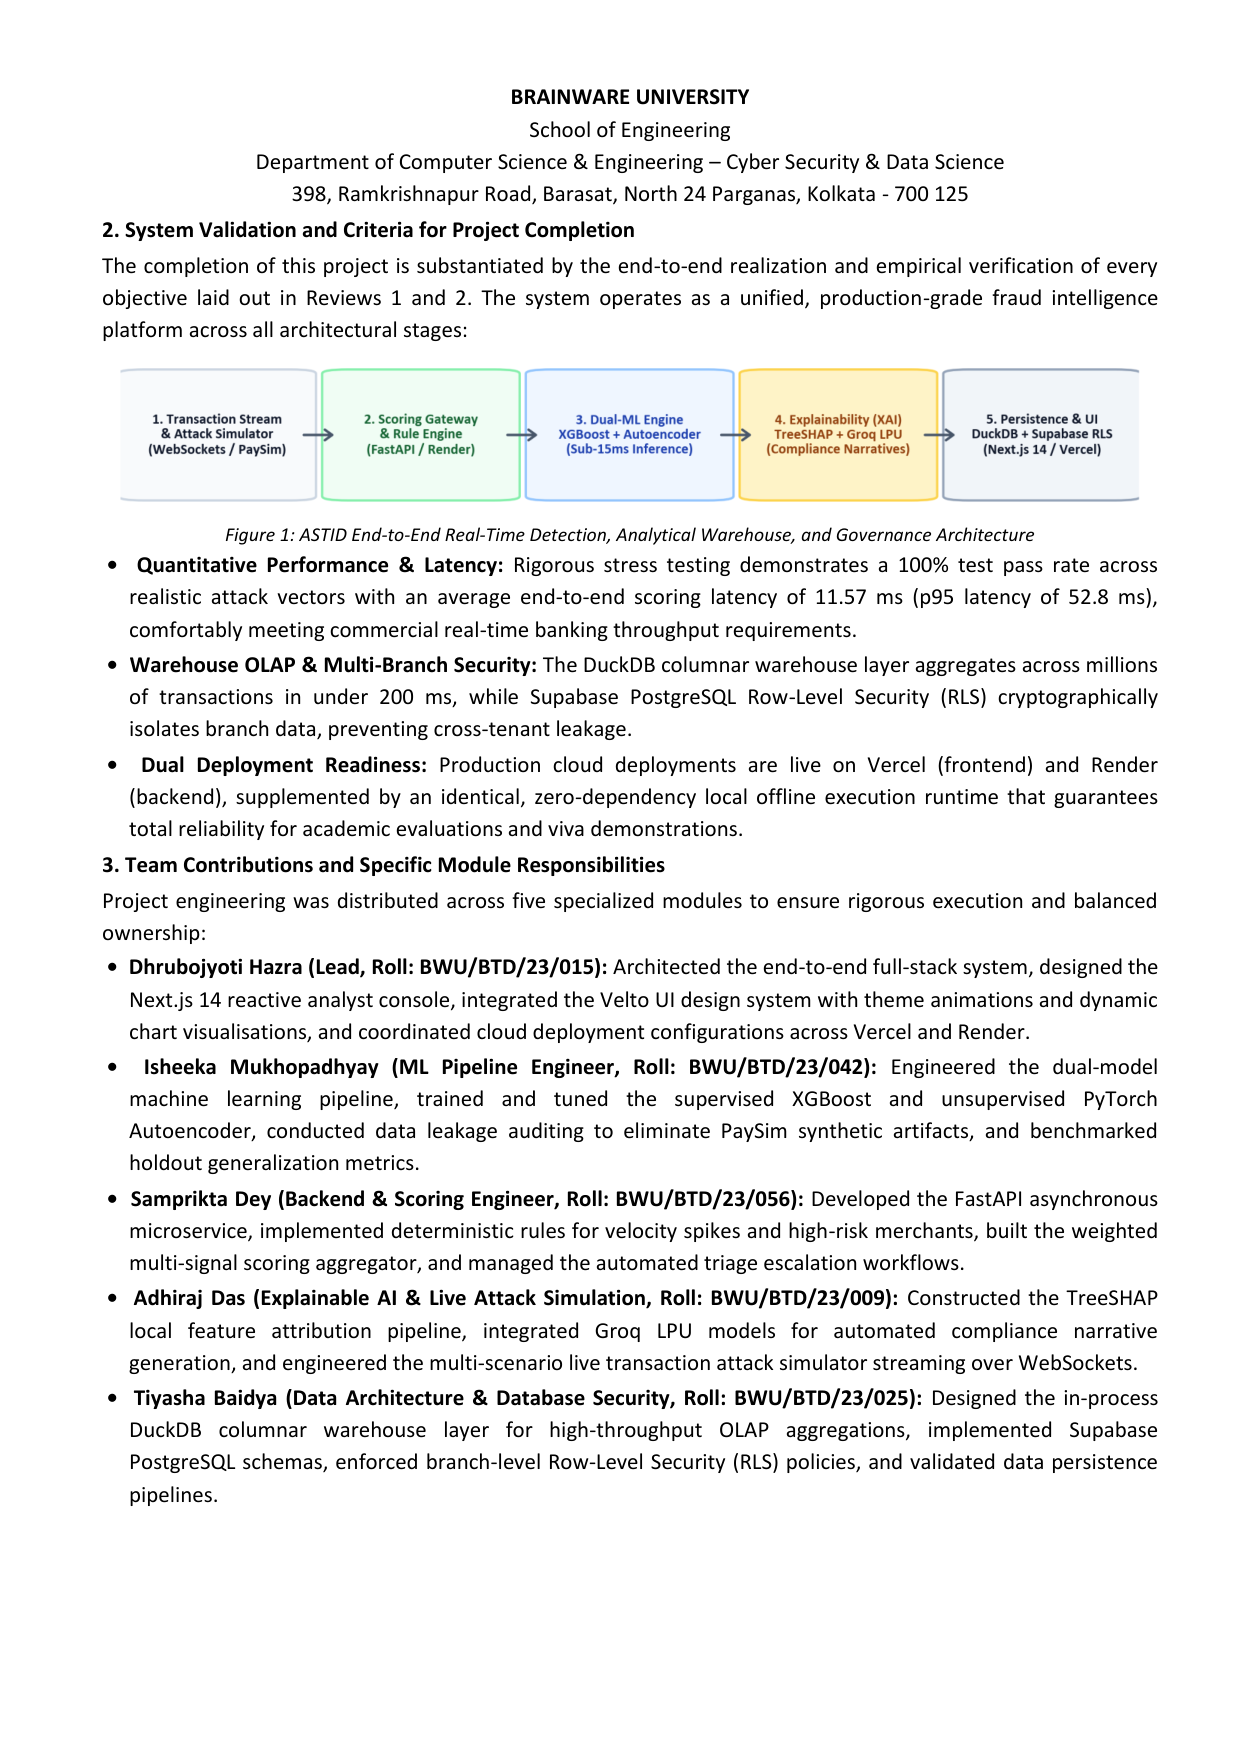
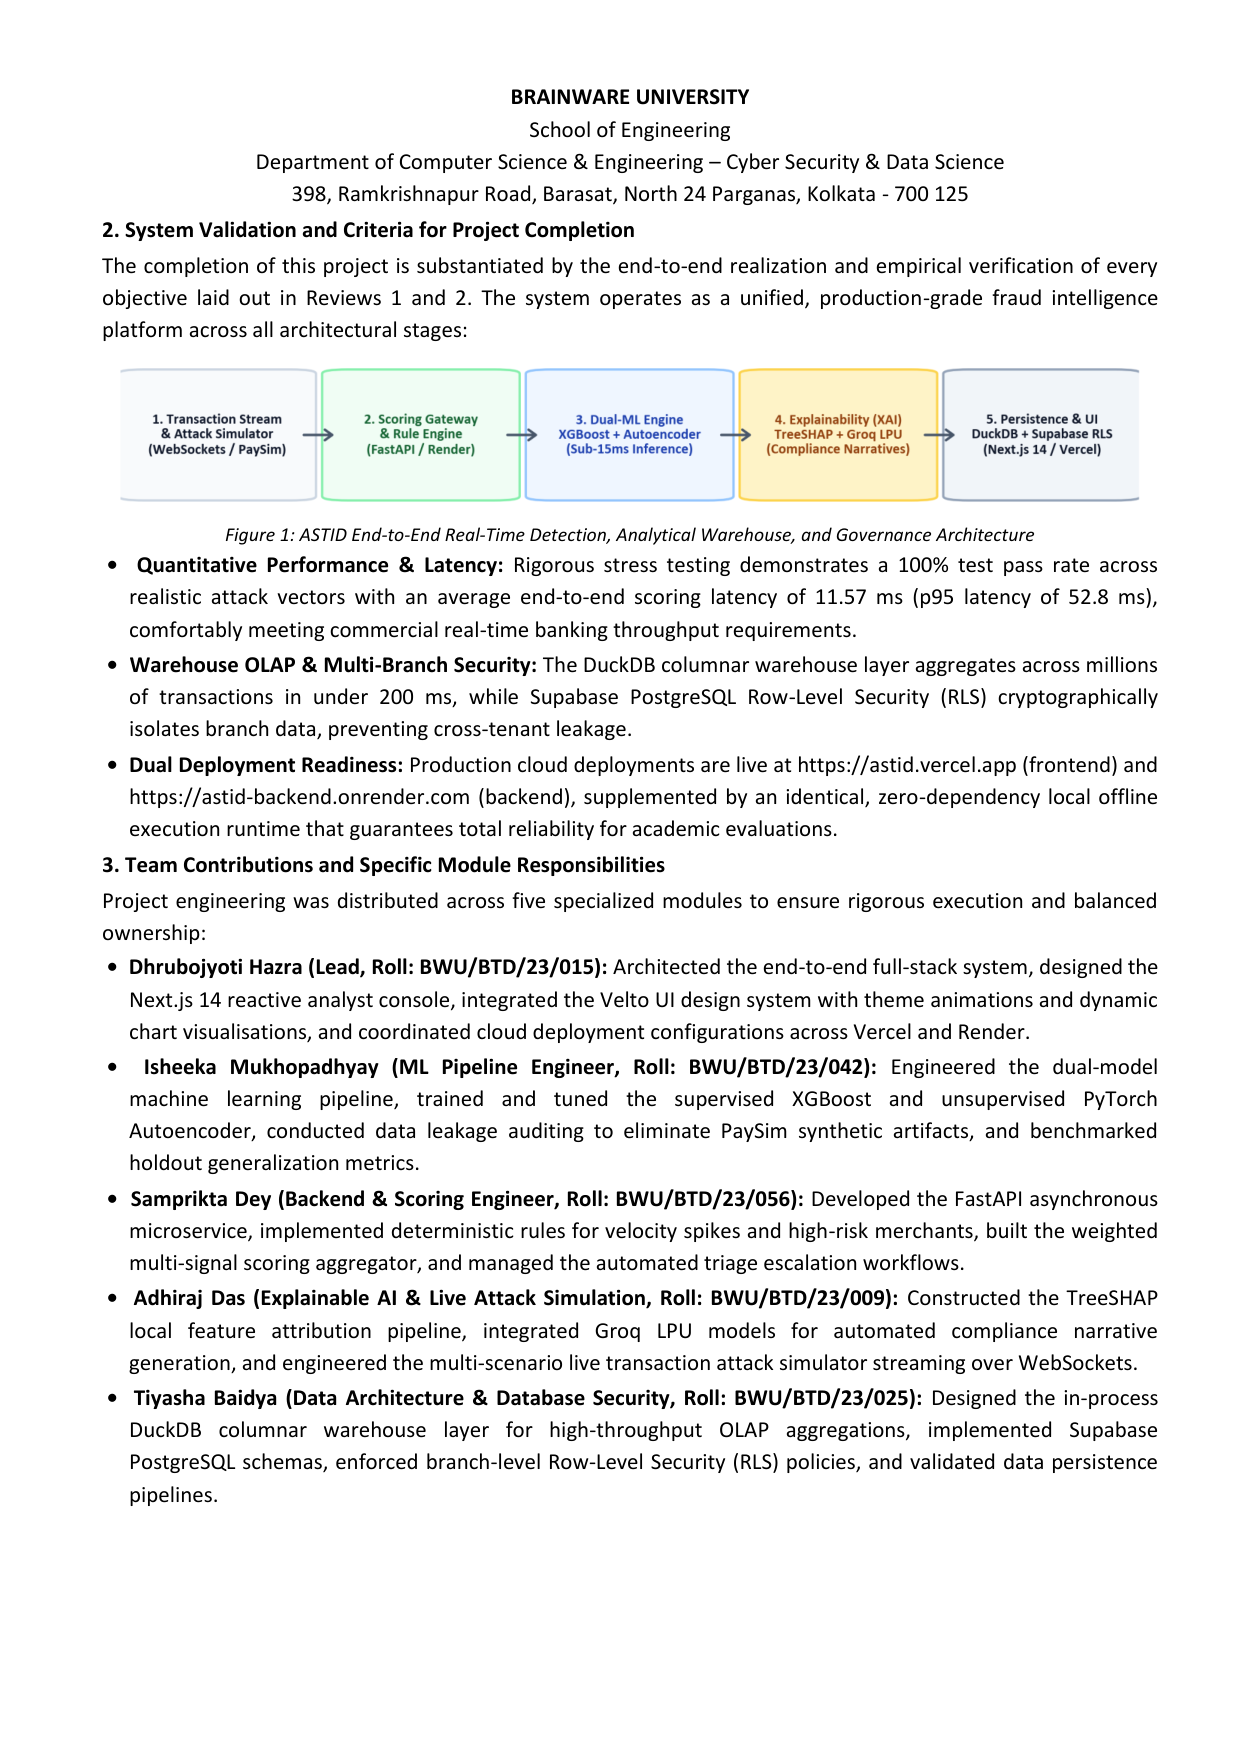
docs(review3): add live deployment URLs to Review 3 form

Changed region(s): [[0.0919, 0.431, 0.9492, 0.4926]]

diff --git a/docs/reviews/generate_review3.py b/docs/reviews/generate_review3.py
@@ -333,8 +333,8 @@ def build_review3():
 
     add_bullet(
         "Dual Deployment Readiness: ",
-        "Production cloud deployments are live on Vercel (frontend) and Render (backend), supplemented by an identical, zero-dependency "
-        "local offline execution runtime that guarantees total reliability for academic evaluations and viva demonstrations."
+        "Production cloud deployments are live at https://astid.vercel.app (frontend) and https://astid-backend.onrender.com (backend), "
+        "supplemented by an identical, zero-dependency local offline execution runtime that guarantees total reliability for academic evaluations."
     )
 
     add_p("3. Team Contributions and Specific Module Responsibilities", bold=True, size_pt=11, space_before=2, space_after=1.5)
